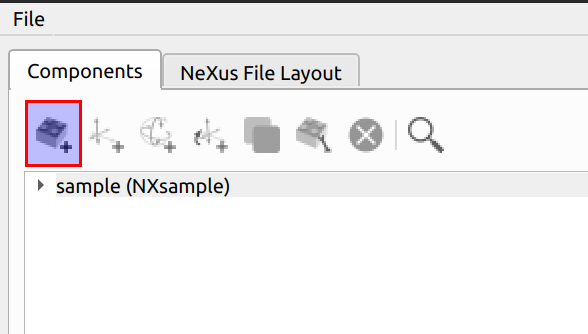
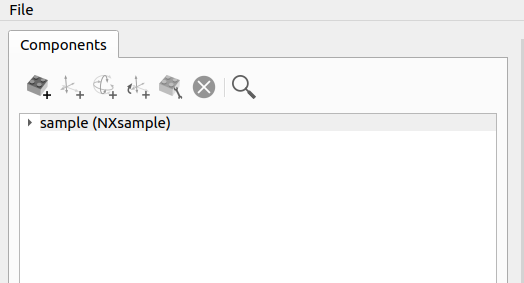
Update Getting started README

Changed region(s): [[0.0, 0.1413, 1.0, 1.0], [0.0, 0.0, 1.0, 0.1131]]

diff --git a/getting_started.md b/getting_started.md
@@ -22,10 +22,6 @@ The sample component is added by default, and is indicated by the red cube. You 
 
 ![](resources/images/NeXusConstructor_001.png)
 
-If you are familiar with the [NeXus format](resources/introduction_to_nexus.md) it may be useful to view the layout of the resulting NeXus file as you modify the template by adding components and other information. You can do this by clicking the "Nexus File Layout" tab in the left pane of the main window.
-
-![](resources/images/Selection_002.png)
-
 
 ## Adding components
 
